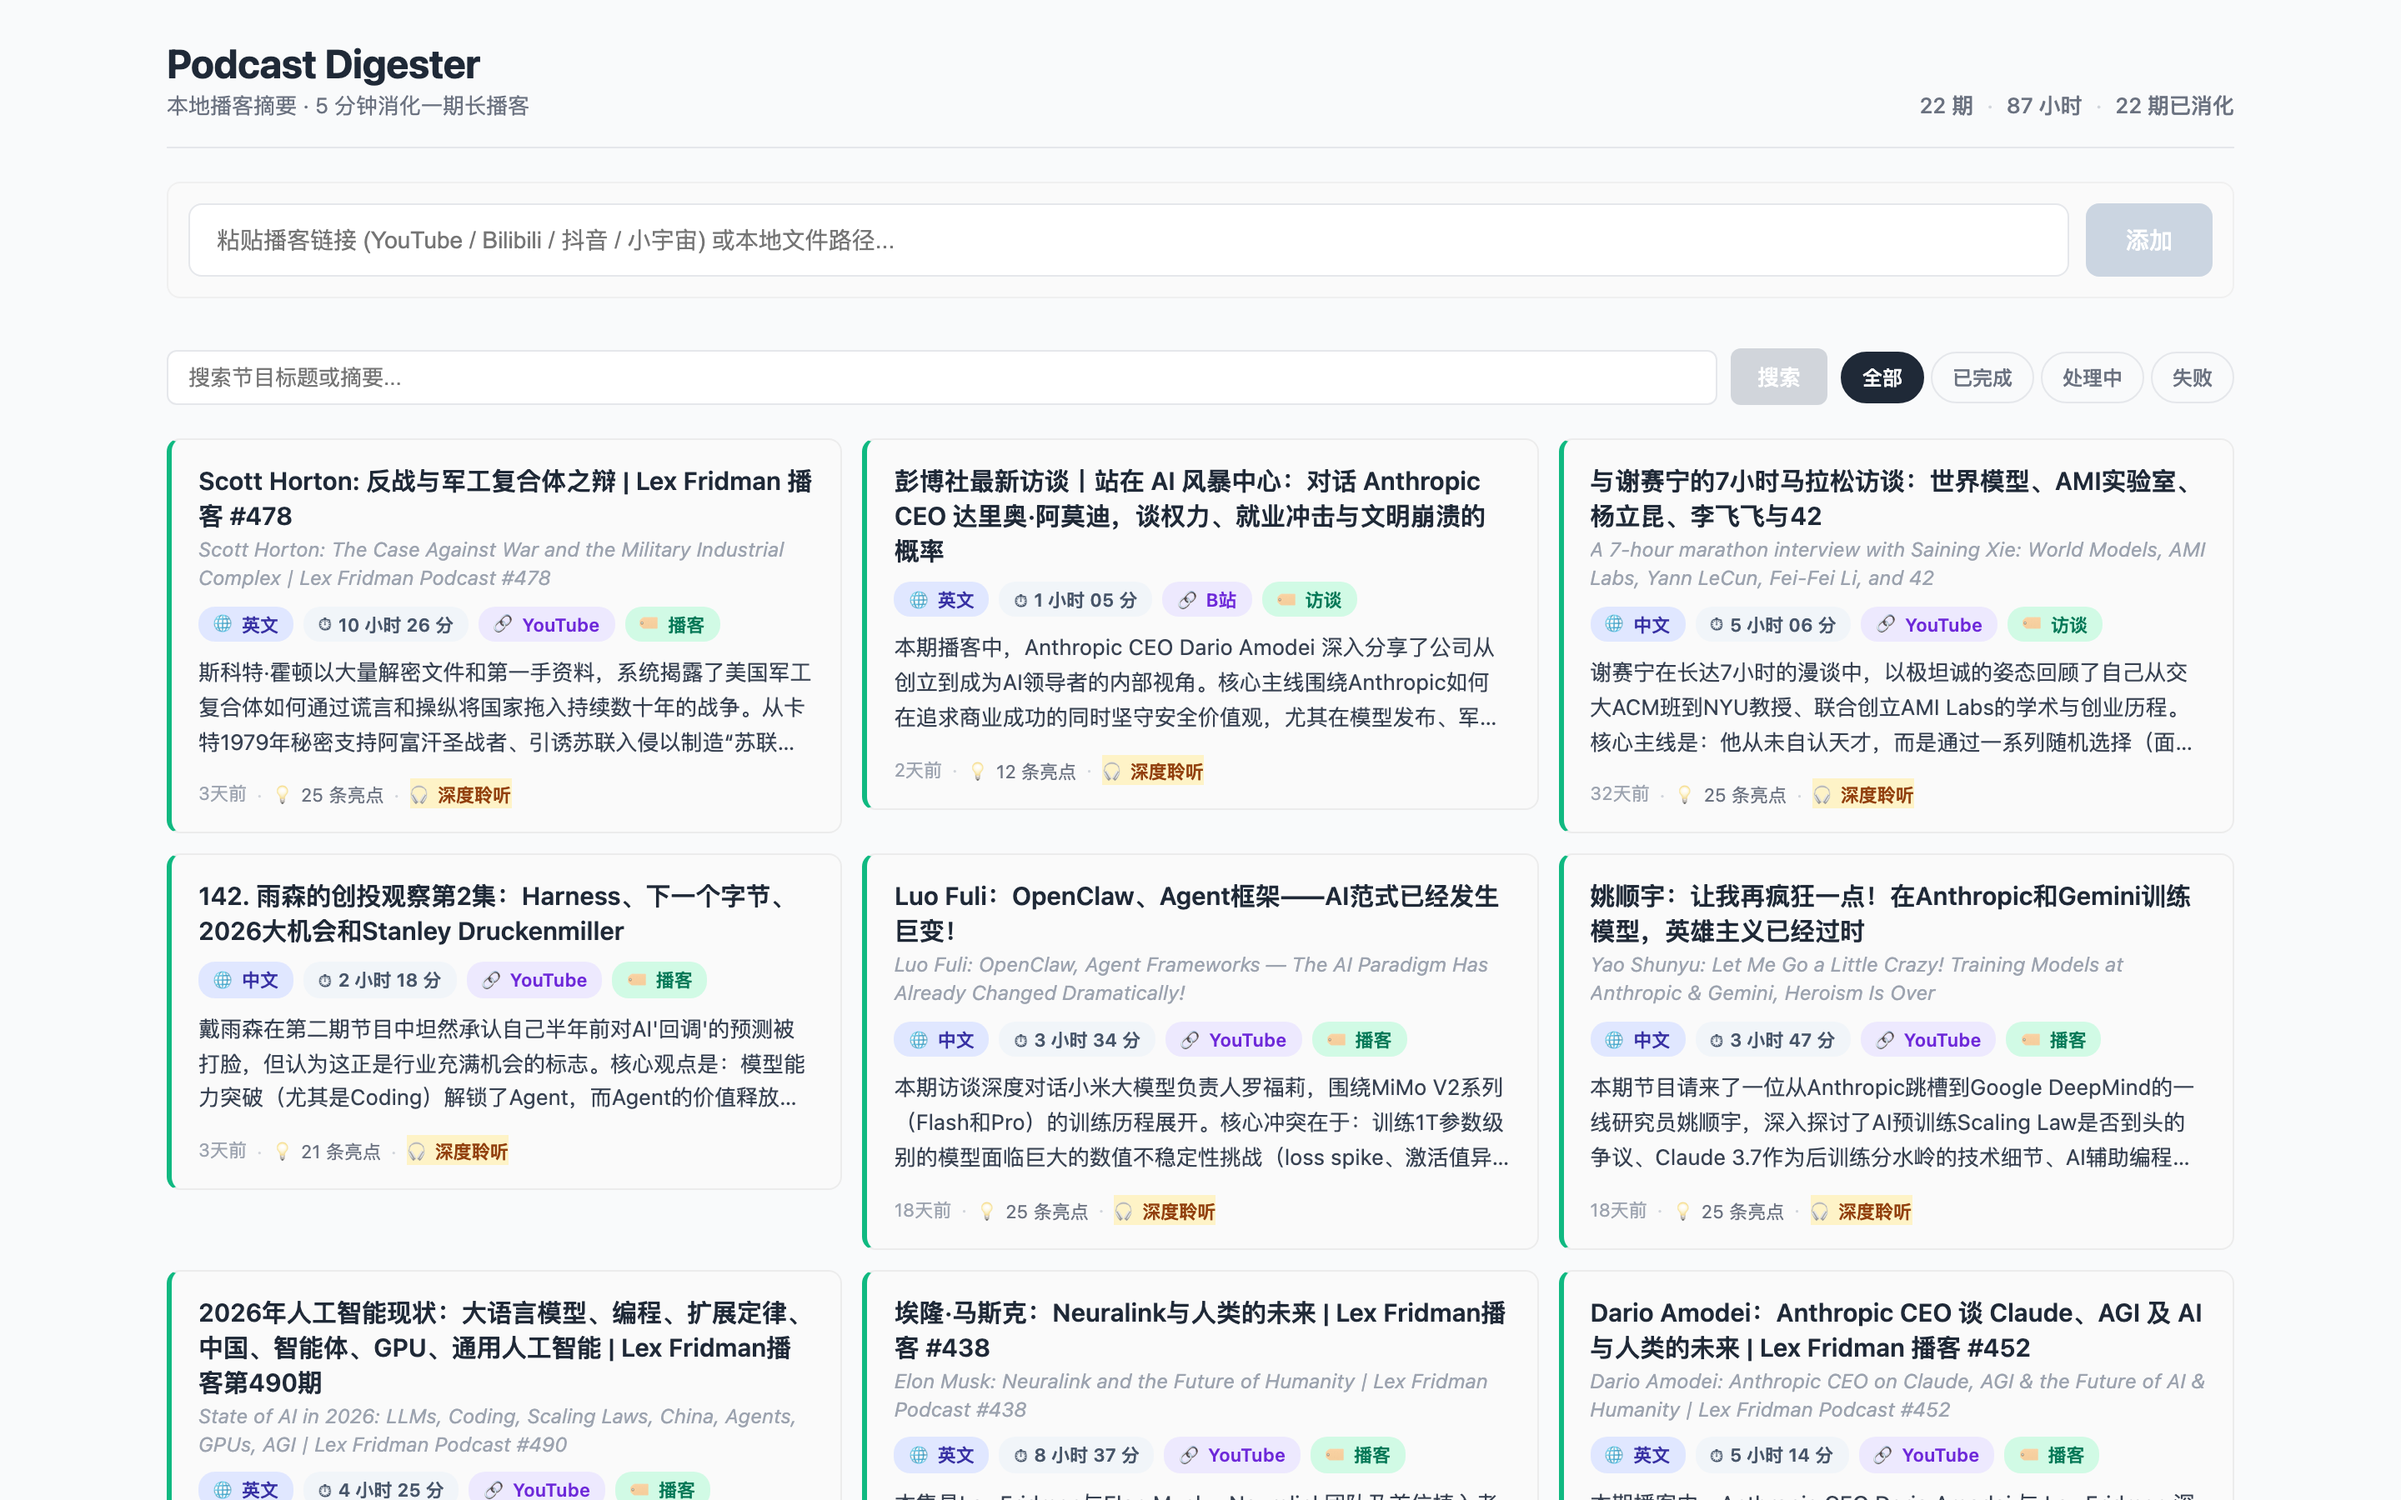
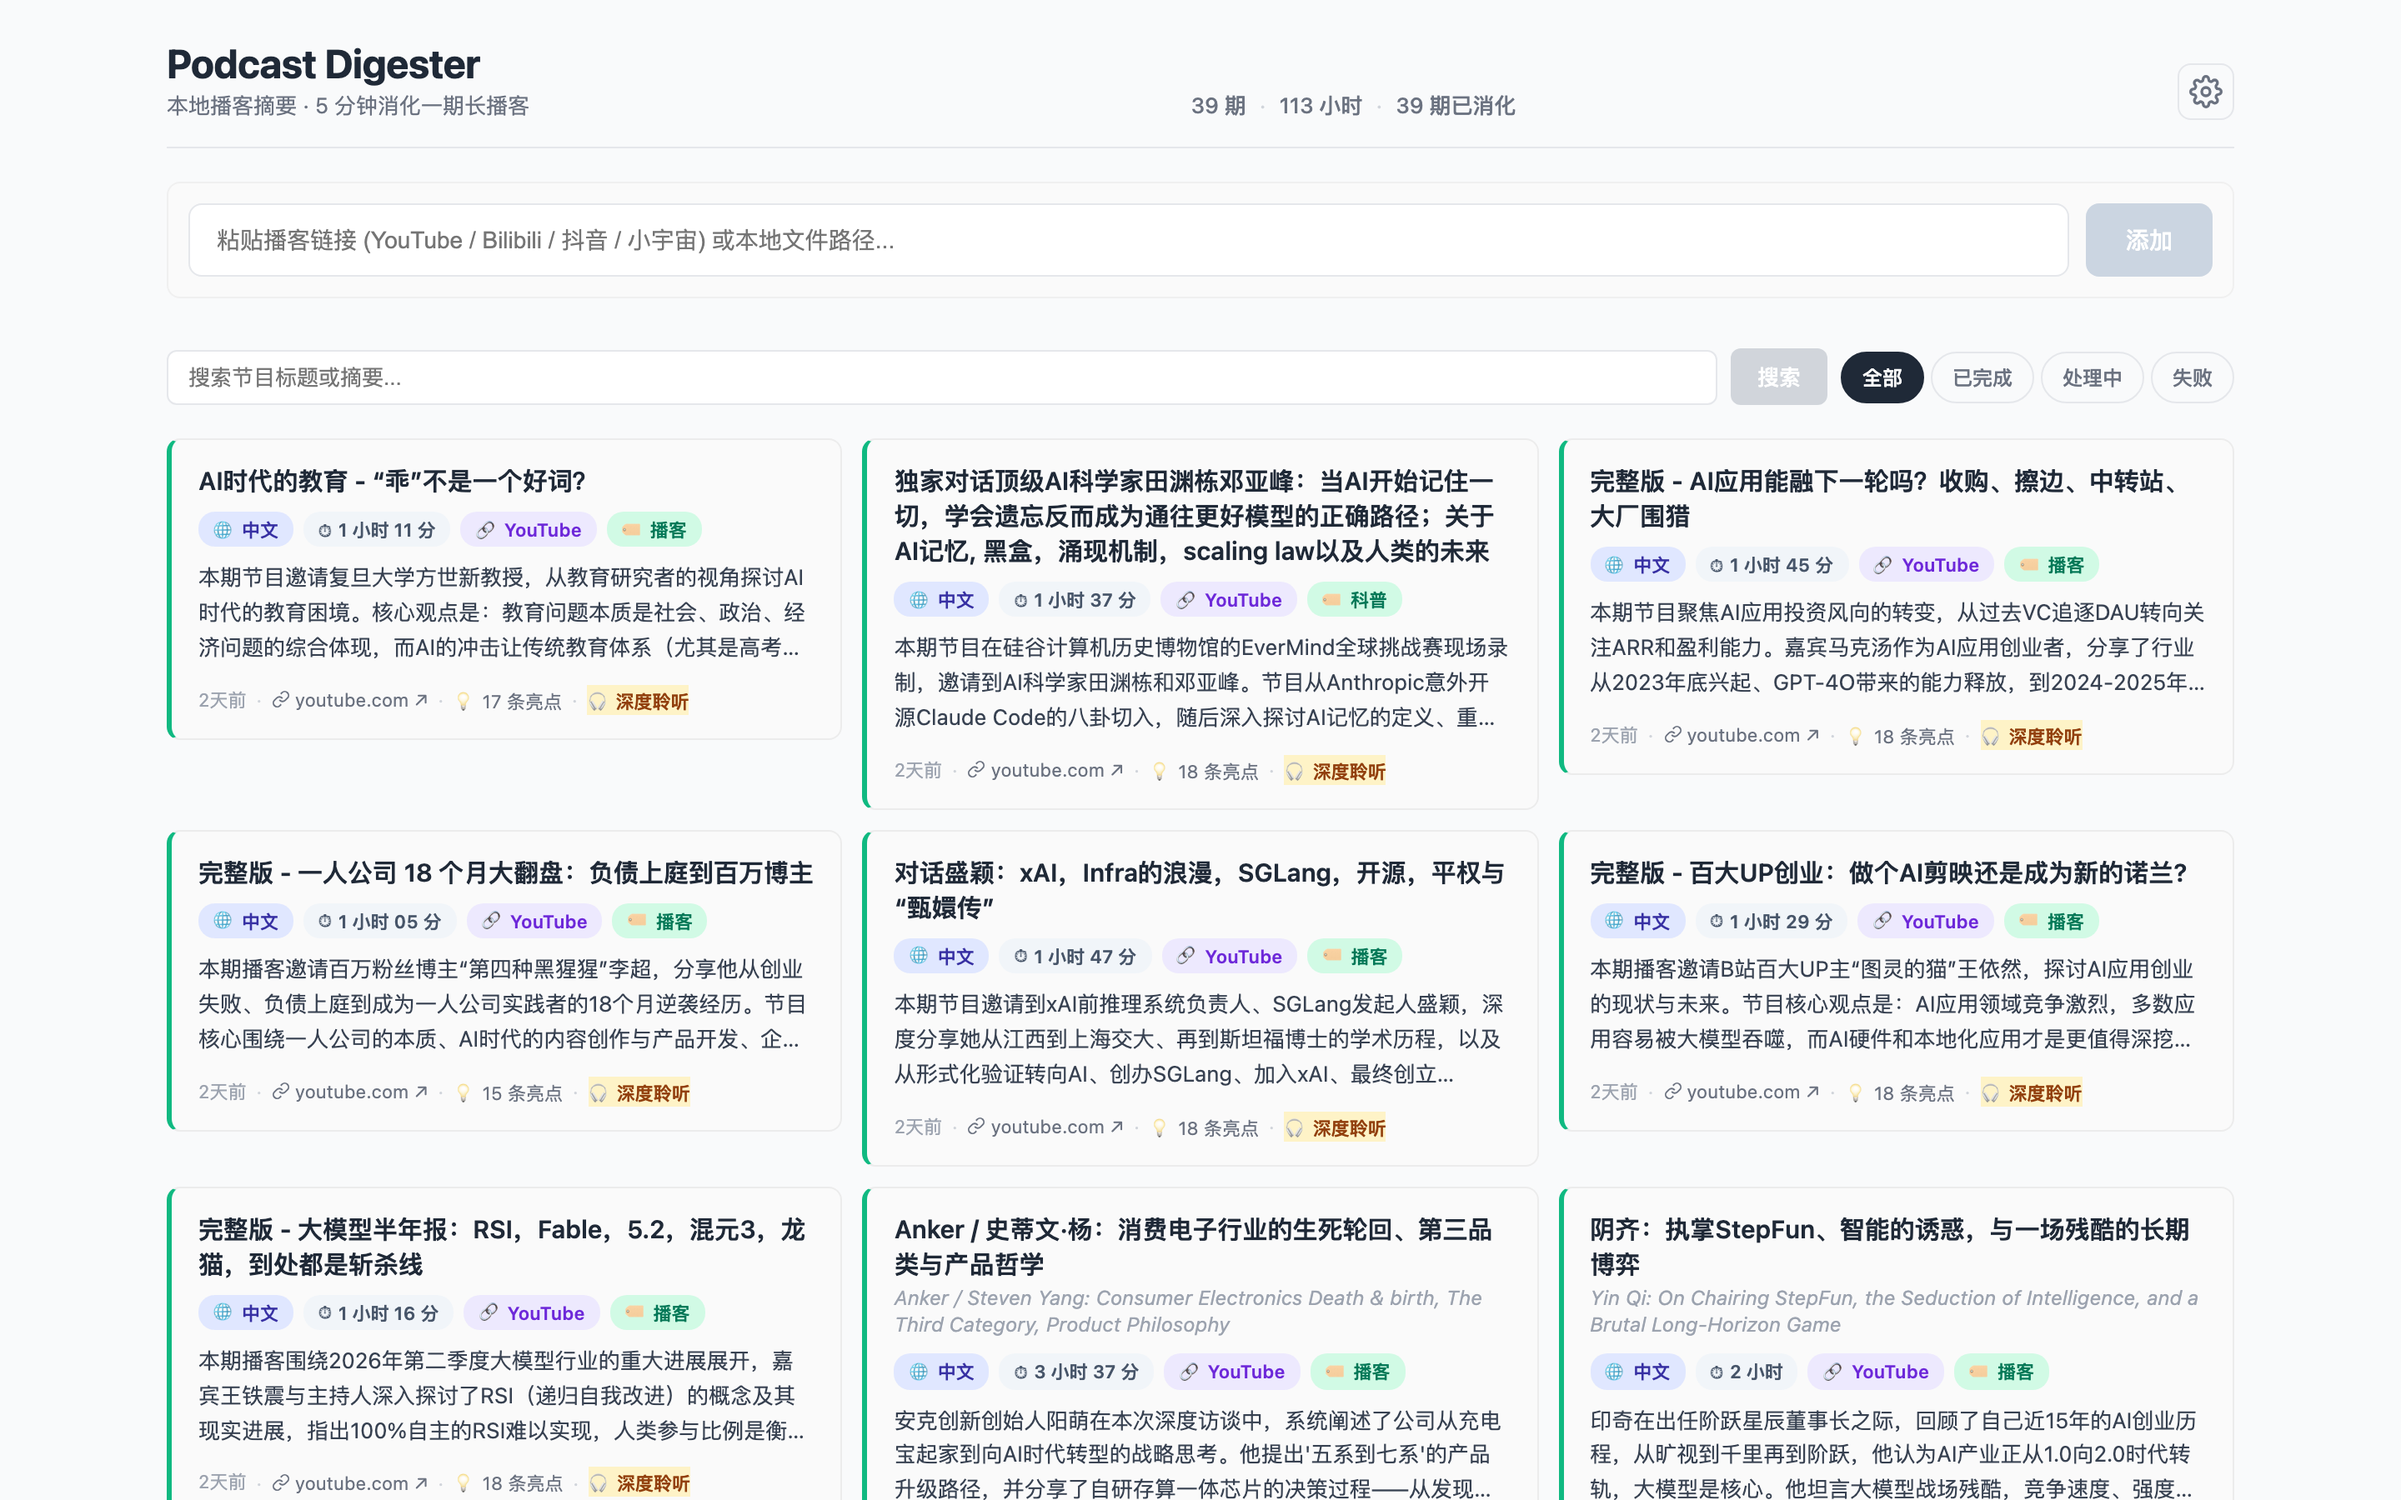
docs: 更新 README 截图至当前界面, CHANGELOG 补全 0.2.1 后未记录变更
- docs/images: library/player 截图更新（含来源链接、词库纠错后的界面）
- CHANGELOG [Unreleased] 补: 全局词库纠错三件套（批量纠错/编辑器自学习/新播客自动套用）、
  Worker 队列自愈与断点续传、来源链接、YouTube 下载健壮性、综合洞察质量门、
  派生数据容错、worker/DB 写健壮性

diff --git a/CHANGELOG.md b/CHANGELOG.md
@@ -11,11 +11,21 @@
 - **启动恢复补全 ASR 阶段**：服务重启时撞见「ASR 未完成」的任务，现能从 `source`/`usage_log` 解析原始输入并经 `resume_episode` 重跑；解析不到时置 `failed` 并给出可操作的错误提示。
 - **CI（GitHub Actions）**：后端 pytest（带覆盖率闸门 `fail-under=45`）+ 前端 vitest + 前端构建冒烟；Dependabot 周更。
 - **应用启动冒烟测试**：真实 HTTP 打 `GET /` 健康端点。
+- **全局词库纠错（改一次、全篇生效、永久沉淀）**：词库面板新增「批量纠错」子区——输入错词与正确写法，先预览字幕 / 章节 / 摘要 / 金句 / 洞察五个模块的命中数，确认后一键全篇应用并自动沉淀入词库（`POST /api/episodes/{id}/batch-correct`）；新播客 polish 后自动确定性套用全局词库（`PODCAST_DIGESTER_AUTO_GLOSSARY`，默认开），下游摘要 / 金句 / 洞察自动继承纠错结果；词库同时注入字幕清洗 prompt 作为权威术语表。
+- **字幕编辑器纠错自学习**：保存单句修改时自动把「错词 → 对词」沉淀入词库；等长编辑（如同音字人名 `杨志玲 → 杨植麟`）也能可靠识别——改用 difflib 差异比对 + 中文字符回溯扩展，抓取完整人名而非碎片变体，避免误伤无关文本。
+- **Worker 队列自愈与断点续传**：单 owner（项目根 `.worker_pid` 锁）+ 5s 轮询 FIFO；进程崩溃留下的 mid-state 孤儿任务在启动时自动重置重排；`resume_episode` 精确续点（逐阶段产物校验 + 级联失效）；ASR / LLM 瞬态失败跨轮次指数退避重试（默认 3 次，可用 `PODCAST_DIGESTER_WORKER_MAX_DOWNLOAD_RETRIES` / `PODCAST_DIGESTER_WORKER_RETRY_BACKOFF` 调整）；音频下载多策略 fallback + CDN 节点预检。
+- **来源链接**：播放器页与节目库卡片均显示来源平台链接（如 `youtube.com ↗`），一键跳回原视频 / 播客；本地路径来源不渲染链接。
 
 ### 修复
 - **DeepSeek 成本计价表**：补 `deepseek-v4-flash`（$0.14/$0.28 per 1M）与 `deepseek-v4-pro`（$0.435/$0.87）两档；把 `deepseek-reasoner` 由过期的 R1 价（$0.55/$2.19）更正为 v4-flash 思考模式价（$0.14/$0.28）。此前在设置页选 `deepseek-v4-flash` 时会命中「未知模型」分支、全程按 $0 计费，使每集成本预算守护失效；选 `deepseek-reasoner` 则高估成本近 8 倍。背景：`deepseek-chat` / `deepseek-reasoner` 旧名将于 2026/07/24 废弃，分别别名映射到 `deepseek-v4-flash` 的非思考 / 思考模式。
 - 清理 3 个一次性 schema 搬运脚本（其建表工作已被 `init_db` 的 `CREATE TABLE IF NOT EXISTS` 覆盖），消除「看着该自动跑实则没接」的迁移脚本造成的 schema 漂移。
 - `.gitignore` 补 `.worker_pid` / `*_pid`（原 `*.pid` 不匹配）。
+- **YouTube 下载健壮性**：`player_client` 回退链逗号拼接修复 403；标题抓取改用 venv 内 yt-dlp（修 system 版 LibreSSL 失败）；修复下载阶段进度归零问题并给标题获取加重试；yt-dlp 升级 2026.7.4 并补重试 / 超时参数。
+- **瞬态错误不再被洗成 failed**：阶段级 `except` 保留 retryable 标记，交回 worker 跨轮次重试，网络抖动不再直接判死整集。
+- **综合洞察质量门**：verify 阶段重设计为保守质量门 + guardrail——宁缺毋滥，砍掉不可靠的综合洞察，留下的每条都有据可查。
+- **派生数据容错**：派生表 write-side 校验（生成边界丢弃非法条目）+ loader 单坏条目容错 + `paragraph_mappings` 统一解码；修复末章 `end_ms` off-by-one。
+- **Worker 启动健壮性**：轮询前先 `init_db()` 确保表存在；移除按进程名全局 `kill -9` 的旧清理逻辑（会误伤同机其他服务）。
+- **DB 写健壮性**：`update_status_sync` 对 `database is locked` 指数退避重试；`save_episode_bundle` DB 写失败时不再回滚已落盘的文件。
 
 ## [0.2.1] — 转录可读性 + 多 Provider
 
